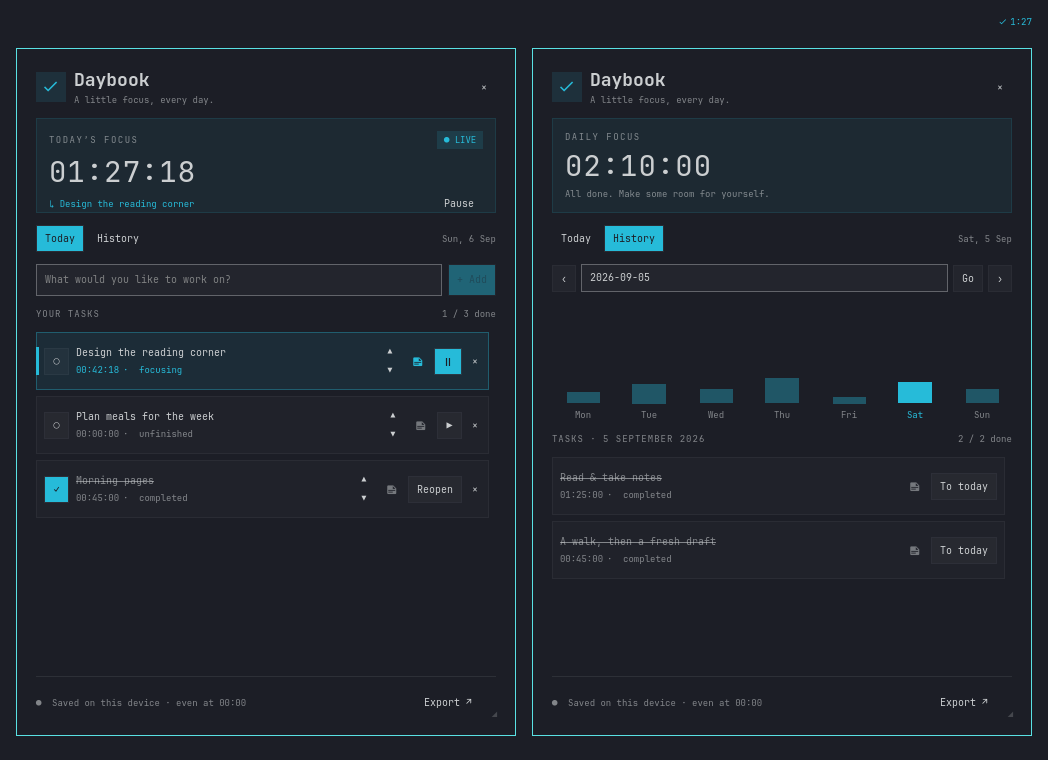
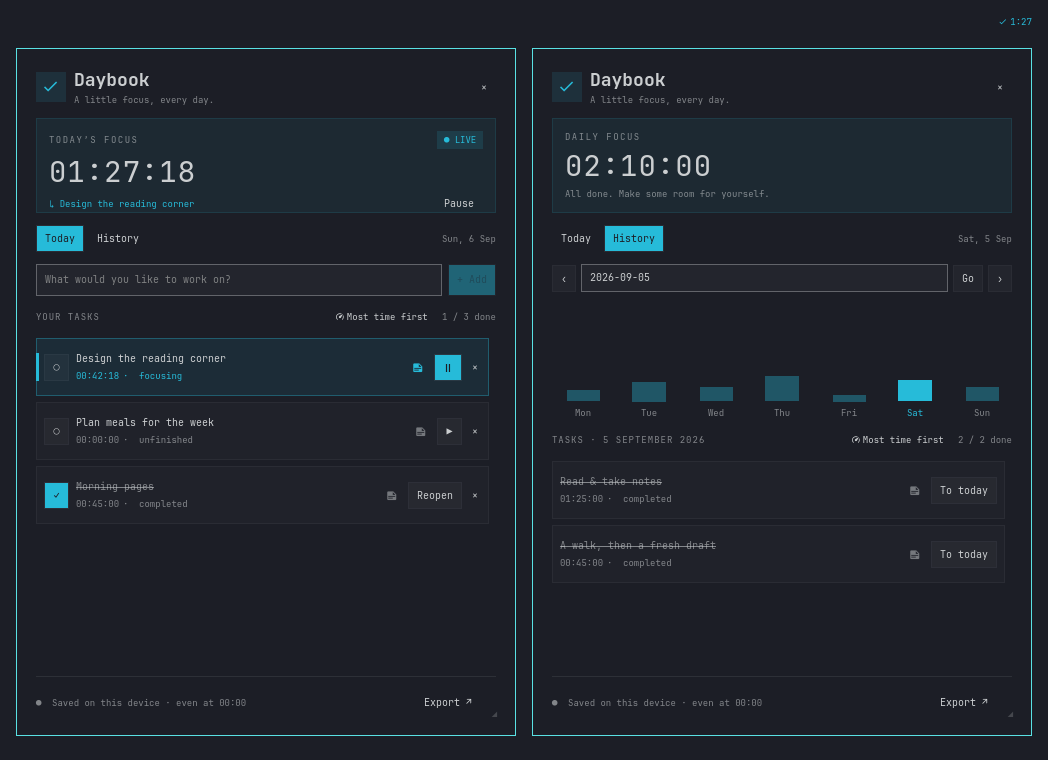
Sort tasks by recorded time by default, with a manual-order toggle
"Most time first" puts the task with the most time today at the top and the
running task climbs as it counts; "My order" keeps the ▲ ▼ arrangement.
The choice is saved in meta and applies to history days too.

Claude-Session: https://claude.ai/code/session_01TQMef3hfiqghvboWULT834

diff --git a/DaybookContent.qml b/DaybookContent.qml
@@ -27,6 +27,7 @@ FocusScope {
     readonly property int taskCount: rows.filter(t => !t.archived).length
     readonly property double totalTime: rows.reduce((sum, t) => sum + t.elapsed_ms, 0)
     readonly property var active: state.active || null
+    readonly property bool sortByTime: (state.sort || "time") === "time"
     readonly property string fontFamily: Style.font.family
     implicitWidth: Style.space(460)
     implicitHeight: Style.space(636)
@@ -263,6 +264,15 @@ FocusScope {
                 color: root.secondary; font.family: root.fontFamily; font.pixelSize: Style.font.bodySmall; font.letterSpacing: 1
             }
             Item { Layout.fillWidth: true }
+            ActionButton {
+                text: root.sortByTime ? " Most time first" : " My order"
+                hint: root.sortByTime ? "Tasks with the most recorded time rise to the top as you work. Click for your own order." : "Tasks stay where you put them with ▲ ▼. Click to sort by recorded time."
+                subtle: true
+                implicitHeight: Style.space(22)
+                font.pixelSize: Style.font.bodySmall
+                enabled: root.editable
+                onClicked: root.service.send("setSort", {sort: root.sortByTime ? "manual" : "time"})
+            }
             Text { text: root.completed + " / " + root.taskCount + " done"; color: root.secondary; font.family: root.fontFamily; font.pixelSize: Style.font.bodySmall }
         }
 
@@ -293,7 +303,7 @@ FocusScope {
                     property bool editing: false
                     property bool editingTime: false
                     property bool showNote: false
-                    readonly property bool canMove: root.viewingToday && !archived
+                    readonly property bool canMove: root.viewingToday && !archived && !root.sortByTime
                     width: taskList.width - Style.space(8)
                     height: Style.space(70) + (showNote ? noteBox.height + Style.space(10) : 0)
                     Behavior on height { NumberAnimation { duration: 120; easing.type: Easing.OutCubic } }

diff --git a/tests/test_daybook.py b/tests/test_daybook.py
@@ -69,6 +69,7 @@ class StoreTests(unittest.TestCase):
         self.assertEqual([r["elapsed_ms"] for r in rows], [7000, 3000])
 
     def test_unfinished_and_zero_carry_through_offline_days(self):
+        self.command("setSort", sort="manual")
         self.add("Untimed")
         task = self.add("Timed")
         self.command("start", taskId=task)
@@ -145,6 +146,7 @@ class StoreTests(unittest.TestCase):
         self.assertEqual(self.store.snapshot("2026-09-06")["tasks"][0]["title"], "Old title")
 
     def test_duplicate_names_have_independent_timers(self):
+        self.command("setSort", sort="manual")
         first, second = self.add("Same"), self.add("Same")
         self.assertNotEqual(first, second)
         self.command("start", taskId=second)
@@ -229,7 +231,26 @@ class StoreTests(unittest.TestCase):
     def titles(self, day=None):
         return [r["title"] for r in self.store.snapshot(day)["tasks"]]
 
+    def test_time_sort_is_default_and_follows_the_timer(self):
+        self.assertEqual(self.store.snapshot()["sort"], "time")
+        first, second, third = self.add("First"), self.add("Second"), self.add("Third")
+        self.assertEqual(self.titles(), ["First", "Second", "Third"])
+        self.command("start", taskId=third)
+        self.advance(3)
+        self.assertEqual(self.titles(), ["Third", "First", "Second"])
+        self.command("start", taskId=second)
+        self.advance(5)
+        self.assertEqual(self.titles(), ["Second", "Third", "First"])
+        self.command("complete", taskId=second)
+        self.assertEqual(self.titles(), ["Third", "First", "Second"])
+        self.command("setSort", sort="manual")
+        self.assertEqual(self.store.snapshot()["sort"], "manual")
+        self.assertEqual(self.titles(), ["First", "Third", "Second"])
+        with self.assertRaises(ValueError):
+            self.command("setSort", sort="alphabetical")
+
     def test_move_reorders_within_open_and_completed_groups(self):
+        self.command("setSort", sort="manual")
         for title in "ABCD":
             self.add(title)
         self.command("move", taskId=3, to="up")
@@ -254,6 +275,7 @@ class StoreTests(unittest.TestCase):
         self.assertEqual(self.titles(), ["C", "B", "D"])
 
     def test_tasks_added_by_other_tools_queue_at_the_end(self):
+        self.command("setSort", sort="manual")
         self.add("Mine")
         self.store.db.execute("INSERT INTO tasks(title, created_day) VALUES('Synced', '2026-09-06')")
         self.store.db.execute("INSERT INTO days(task_id, day, title) VALUES(2, '2026-09-06', 'Synced')")
@@ -287,6 +309,7 @@ class StoreTests(unittest.TestCase):
                 PRAGMA user_version=1;
             """)
         self.store = Store(path, now=lambda: self.now)
+        self.command("setSort", sort="manual")
         self.assertEqual(self.titles(), ["Old", "Older"])
         self.assertEqual(self.store.snapshot()["tasks"][0]["note"], "")
         self.command("move", taskId=2, to="top")

diff --git a/daybook.py b/daybook.py
@@ -230,6 +230,11 @@ class Store:
                         self.db.execute("UPDATE days SET title=? WHERE task_id=? AND day=?", (title, task_id, today))
             elif action == "pause":
                 self.db.execute("DELETE FROM active")
+            elif action == "setSort":
+                sort = request.get("sort")
+                if sort not in ("time", "manual"):
+                    raise ValueError("Sort tasks by time or manually.")
+                self.db.execute("INSERT OR REPLACE INTO meta VALUES('sort', ?)", (sort,))
             elif action == "setPanel":
                 for key in ("width", "height"):
                     value = request.get(key, 0)
@@ -249,11 +254,12 @@ class Store:
             raise ValueError("Choose today or a previous date (YYYY-MM-DD).")
         active = self.db.execute("SELECT task_id FROM active").fetchone()
         active_id = active[0] if active else 0
+        sort = self.sort()
         def rows_for(day):
             rows = [dict(row) for row in self.db.execute("""
                 SELECT d.*, t.archived, t.note FROM days d JOIN tasks t ON t.id=d.task_id
-                WHERE day=? ORDER BY t.archived, d.completed, t.position, d.task_id
-            """, (day,))]
+                WHERE day=? ORDER BY t.archived, d.completed, CASE WHEN ?='time' THEN -d.elapsed_ms ELSE 0 END, t.position, d.task_id
+            """, (day, sort))]
             for row in rows:
                 row["running"] = row["task_id"] == active_id and day == today
             return rows
@@ -277,8 +283,12 @@ class Store:
         panel = {row[0][6:]: int(row[1]) for row in self.db.execute("SELECT key, value FROM meta WHERE key IN ('panel_width','panel_height')")}
         return {"today": today, "selected": selected, "tasks": rows, "today_tasks": today_rows, "dates": dates,
                 "active": dict(active_row) if active_row else None, "summary": summary,
-                "week": week, "notice": self.notice, "database": str(self.path),
+                "week": week, "notice": self.notice, "database": str(self.path), "sort": sort,
                 "panel": {"width": panel.get("width", 0), "height": panel.get("height", 0)}}
+
+    def sort(self):
+        row = self.db.execute("SELECT value FROM meta WHERE key='sort'").fetchone()
+        return row[0] if row and row[0] in ("time", "manual") else "time"
 
     def export_csv(self):
         output = io.StringIO()

diff --git a/README.md b/README.md
@@ -15,7 +15,8 @@ Native Quickshell UI · Live Omarchy themes · Local SQLite storage · MIT licen
 - Carry unfinished tasks into a new day while preserving each day's totals.
 - Correct a recorded time by clicking it, on today or any past day.
 - Keep a note on each task; the note icon lights up when there is one.
-- Reorder tasks with the arrows so the important work sits at the top.
+- Tasks with the most recorded time rise to the top as you work, or switch to
+  your own order and arrange them with the arrows.
 - Drag the corner to make the panel as tall or wide as your screen allows.
 - Browse previous days, use the seven-day chart, and export all history as CSV.
 - Use one shared timer across monitors; move the widget left, center, or right.
@@ -79,8 +80,11 @@ Nothing needs to be built.
 - **** opens a note under the task. Ctrl+Enter or **Save** stores it, Escape closes
   without saving, and clicking elsewhere saves any change. The icon turns accent
   when a note exists; hover it to read the note without opening it.
-- **▲ ▼** move a task one place; right-click them to send it to the top or bottom.
-  Open and completed tasks keep their own order.
+- By default the list shows **Most time first**: whichever task has the most
+  recorded time today sits at the top, and the running task climbs as it counts.
+  Click that label to switch to **My order**, where **▲ ▼** move a task one place
+  and right-clicking them sends it to the top or bottom. Open and completed
+  tasks keep their own order in both modes.
 - Drag the **◢** corner to resize the panel. The size is remembered on every
   monitor; double-click the corner to go back to the default.
 - **×** beside a task archives it without deleting any history.
